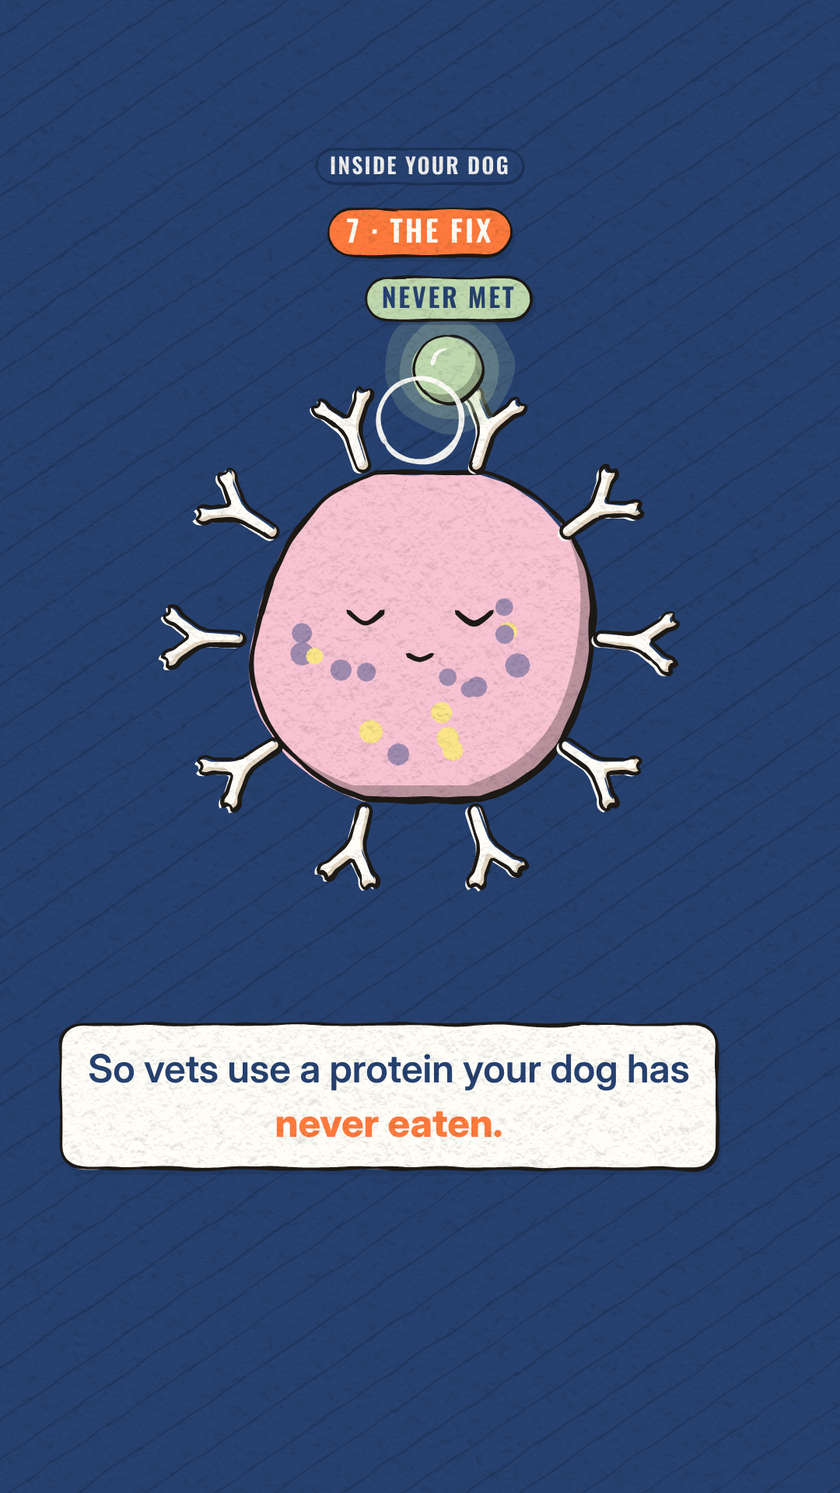
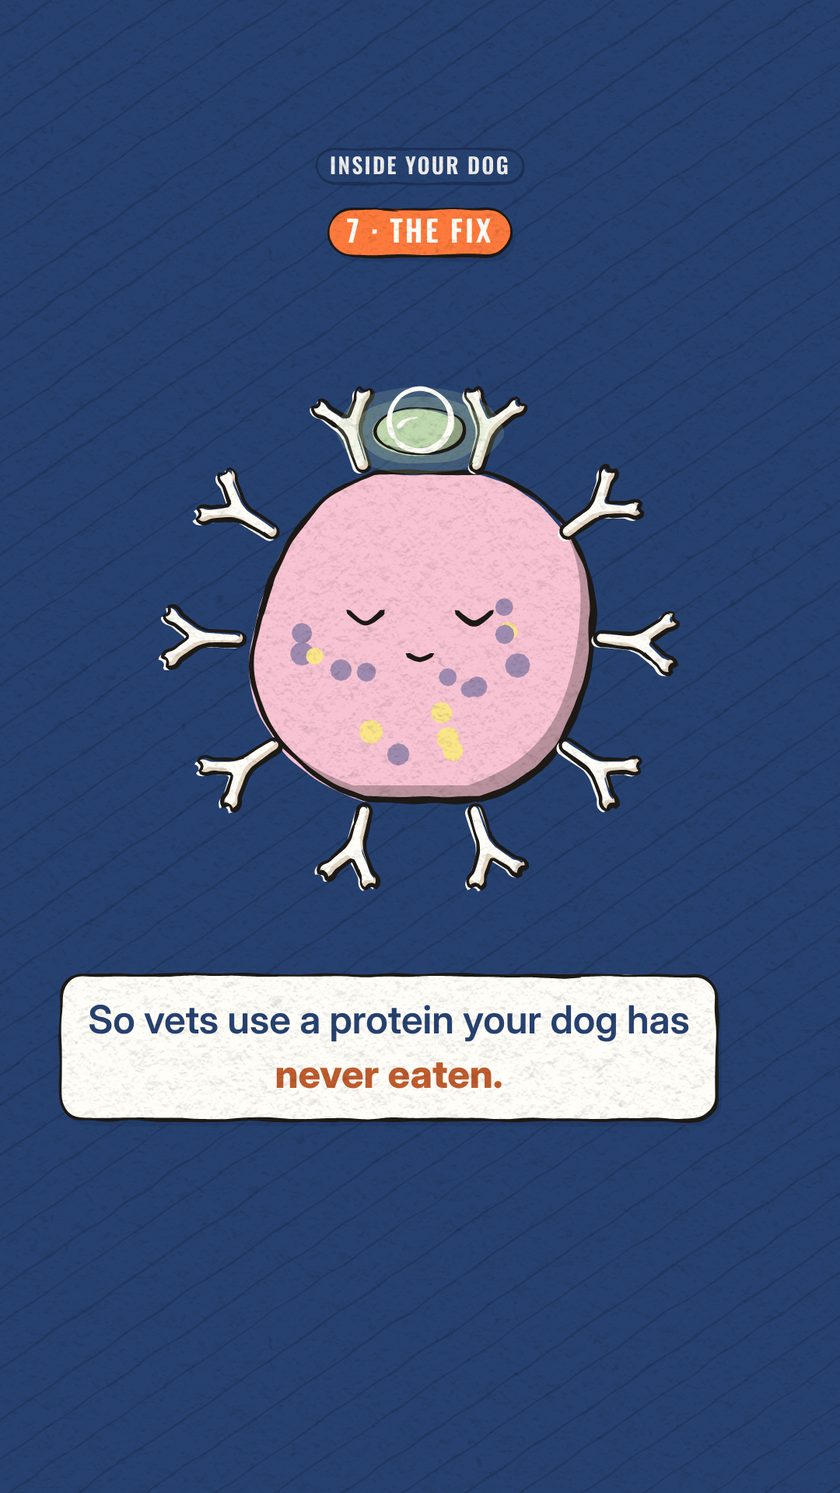
Inside Your Dog: revision 1 from the rubric review
Crossfades keep the outgoing shot moving (no frozen ghost labels);
captions anchored by the bottom edge inside the safe zone and pop in
opaque; callout runs after its caption; smear frames on the gem into
the mouth, the post-burst protein and the never-met rebound (squash on
contact); wipe grows from Miya's mouth and the gut opens with an iris;
SCRATCH! held to 40.2; gut rush on 1s at a capped speed; logo drawn
above the paper grain; no overlays on the impact frames. Audio: burst
louder, SCRATCH softer, guitar back at 32.4, harp instead of celesta
and blips, true peak ceiling -2 dBTP for AAC.

Claude-Session: https://claude.ai/code/session_01PUQuDkxmtnK9JnfuM18izc

Changed region(s): [[0.0611, 0.625, 0.8556, 0.8125], [0.3972, 0.1875, 0.6417, 0.3438]]

diff --git a/films/2026-10-13-inside-your-dog-food-allergy/js/scene.js b/films/2026-10-13-inside-your-dog-food-allergy/js/scene.js
@@ -13,7 +13,7 @@ export const W = 1080, H = 1920, FPS = 24, DUR = 58;
 let ctx, DPR = 1, LOGO;
 
 // ------------------------------------------------------------------ exposure sheet: on 2s, fast action on 1s, holds on 3s
-const SCHED = [[0, 58, 1], [58, 77, 2], [77, 96, 1], [96, 706, 2], [706, 768, 1], [768, 1320, 2], [1320, 1392, 3]];
+const SCHED = [[0, 58, 1], [58, 77, 2], [77, 96, 1], [96, 706, 2], [706, 768, 1], [768, 1094, 2], [1094, 1152, 1], [1152, 1236, 2], [1236, 1260, 1], [1260, 1320, 2], [1320, 1392, 3]];
 function drawing(f) {
   let id = 0;
   for (const [a, b, s] of SCHED) {
@@ -44,13 +44,13 @@ const CAPS = [
   [13.8, 16.4, 'It tags that protein as an **invader...**'],
   [16.4, 19.0, '...and builds **antibodies** against it.'],
   [19.3, 22.2, 'Those antibodies load onto **mast cells** in the skin and gut.'],
-  [22.2, 26.0, 'Nothing happens yet. Your dog **seems fine.**'],
+  [22.2, 24.2, 'Nothing happens yet. Your dog **seems fine.**'],
   [26.2, 28.2, 'Next meal. **Same protein.**'],
   [28.2, 30.8, 'It **locks** onto the antibodies...'],
   [30.8, 35.0, '...and the mast cells **burst,** releasing **histamine** and **itch signals.**'],
   [35.2, 37.4, 'In the skin, those signals fire up the **nerves.**'],
-  [37.4, 39.6, 'The message races to the **brain...**'],
-  [39.6, 43.0, '...and the brain says one thing: **scratch.**'],
+  [37.4, 38.8, 'The message races to the **brain...**'],
+  [38.8, 43.0, '...and the brain says one thing: **scratch.**'],
   [43.2, 45.6, 'In the gut, the same reaction causes **inflammation.**'],
   [45.6, 48.0, 'Food rushes through. Hello, **bad poops.**'],
   [48.2, 50.6, 'The body only reacts to proteins it has **met before.**'],
@@ -72,10 +72,11 @@ function overlays(c, t, v) {
   }
   for (const [txt, a, b] of TITLES) {
     if (t < a || t >= b) continue;
+    if (txt.startsWith('5') && t >= 38.75 && t < 40.2) continue; // SCRATCH! owns the top of frame
     const u = E.out3(clamp((t - a) / 0.35)), out = clamp((b - t) / 0.25);
     CA.pill(c, txt, 540, 279 + 14 * (1 - u) + 20, { size: 38, fill: PAL.orange, color: PAL.hi, alpha: u * out, seed: 21 }, v);
   }
-  for (const [a, b, words] of CAPS) CA.caption(c, words, 500, 1410, t, a, b, v);
+  CAPS.forEach(([a, b, words], i) => CA.caption(c, words, 500, 1440, t, a, b, v, { cont: i > 0 && CAPS[i - 1][1] === a, hold: i < CAPS.length - 1 && CAPS[i + 1][0] === b }));
 }
 
 // ------------------------------------------------------------------ shot 1 · hook (0–4), cream paper
@@ -119,12 +120,14 @@ function shotHook(c, t, f, D) {
   if (t >= 2.5 && t < 3.25) {
     const k = E.io2(inv(2.5, 3.25, t)), p0 = { x: 1180, y: 380 };
     const x = lerp(p0.x, m.x, k), y = lerp(p0.y, m.y, k) - Math.sin(Math.PI * k) * 260;
-    CA.proteinGem(c, x, y, lerp(70, 34, k), t * 3, 60, v);
+    if (t >= 3.1) smearGem(c, x, y, lerp(70, 34, k), Math.atan2(m.y - y, m.x - x), 2.4, 60, v);
+    else CA.proteinGem(c, x, y, lerp(70, 34, k), t * 3, 60, v);
   }
   // a deep-navy circle grows from the mouth to fill the frame (3.45–4.0)
   if (t >= 3.45) {
     const r = lerp(0, 1500, E.in2(inv(3.45, 4.0, t)));
-    const ring = circlePts(W / 2, H / 2, r, 120);
+    const mo = locate(P, o, (R) => R.face.mouthO);
+    const ring = circlePts(mo.x, mo.y, r * 1.6, 120);
     fillShape(c, ring, PAL.navyDeep, { seed: 250 + f, amp: 2 });
     inkLoop(c, ring, { seed: 251 + f, w: 8, amp: 2 });
   }
@@ -198,9 +201,21 @@ function drawGutWorld(c, t, f, D, camY, skipIntact = false) {
     }
   });
   c.restore();
-  label(c, 'INTACT PROTEIN', 540, WALL_BASE + 210 - camY, t, 9.5, 10.7, v, { size: 34 });
+  label(c, 'INTACT PROTEIN', 540, WALL_BASE + 150 - camY, t, 9.5, 10.7, v, { size: 34 });
 }
-function shotGut(c, t, f, D) { drawGutWorld(c, t, f, D, gutCam(t)); }
+function shotGut(c, t, f, D) {
+  drawGutWorld(c, t, f, D, gutCam(t));
+  if (t < 4.5) { // iris open from the navy wipe
+    const r = lerp(0, 1250, E.out2(inv(4.0, 4.5, t))), ring = circlePts(W / 2, H * 0.42, r, 120);
+    c.save(); c.beginPath(); c.rect(0, 0, W, H); polyPath(c, ring, true); c.fillStyle = PAL.navyDeep; c.fill('evenodd'); c.restore();
+    if (r > 4) inkLoop(c, ring, { seed: 252 + f, w: 8, amp: 2 });
+  }
+}
+// one-frame smear: the gem stretched along its motion
+function smearGem(c, x, y, r, dir, len, seed, v) {
+  c.save(); c.translate(x, y); c.rotate(dir); c.scale(len, 0.62); c.rotate(-dir);
+  CA.proteinGem(c, 0, 0, r, dir, seed, v, { glow: 0 }); c.restore();
+}
 
 function protein3(i, t) { const p = intactPos(i, Math.min(t, 10.4)); return { x: p.x, y: p.y - gutCam(Math.min(t, 11.75)) + Math.sin(t * 2.2 + i) * 10 }; }
 function shotMistake(c, t, f, D) {
@@ -299,7 +314,8 @@ function shotTrap(c, t, f, D) {
     const p = protein5(k, t);
     if ((k === 0 && t >= burst) || (k === 1 && t >= 31.4) || (k === 2 && t >= 31.8)) {
       const u = (t - (k === 0 ? burst : k === 1 ? 31.4 : 31.8)) / 0.6; if (u > 1) return;
-      CA.proteinGem(c, p.x + 300 * u, p.y - 900 * u, p.r, t * 6, 760 + k, v); return; // shoots up and away
+      if (u < 0.09) smearGem(c, p.x + 300 * u, p.y - 900 * u, p.r, Math.atan2(-900, 300), 3.0, 760 + k, v);
+      else CA.proteinGem(c, p.x + 300 * u, p.y - 900 * u, p.r, t * 6, 760 + k, v); return; // shoots up and away
     }
     if (t < p.lockT && t < PROT5[k].t0 + 1.35) for (let g = 1; g <= 2; g++) { // ghost trails while flying in
       const q = protein5(k, t - g * 0.08); c.save(); c.globalAlpha = 0.25 / g; CA.proteinGem(c, q.x, q.y, p.r, 0, 750 + k, v, { glow: 0 }); c.restore();
@@ -336,18 +352,18 @@ function shotTrap(c, t, f, D) {
     c.save(); c.globalAlpha = Math.sin(Math.PI * u); c.font = `italic 600 ${44 + k * 10}px "Fraunces"`; c.fillStyle = PAL.hi;
     c.fillText('z', 760 + 40 * u + k * 6, 640 - 160 * u - k * 30); c.restore();
   }
-  if (t >= 23.1 && t < 25.8) { // callout card
-    const u = E.out3(clamp((t - 23.1) / 0.4)), a = clamp((25.8 - t) / 0.25);
+  if (t >= 24.2 && t < 26.0) { // callout card (after the caption, never with it)
+    const u = E.out3(clamp((t - 24.2) / 0.3)), a = clamp((26.0 - t) / 0.2);
     c.save(); c.globalAlpha = a; c.translate(0, 60 * (1 - u));
-    const P = G.resample(CA.roundRect(330, 1100, 680, 120, 24), 6, true);
+    const P = G.resample(CA.roundRect(160, 1100, 680, 120, 24), 6, true);
     fillShape(c, P.map(([x, y]) => [x + 6, y + 8]), 'rgba(27,47,82,0.35)', { seed: 900 + v, amp: 1.2 });
     fillShape(c, P, PAL.hi, { seed: 901 + v, amp: 1.4 }); inkLoop(c, P, { seed: 902 + v, w: 3.5, amp: 1.4 });
     c.font = '600 34px "Inter"'; c.fillStyle = PAL.navy; c.textAlign = 'left';
-    c.fillText('This is why allergies seem', 362, 1150); c.fillText('to come out of nowhere.', 362, 1196);
+    c.fillText('This is why allergies seem', 192, 1150); c.fillText('to come out of nowhere.', 192, 1196);
     c.restore();
   }
   label(c, 'HISTAMINE', 250, 420, t, 32.3, 35.0, v, { size: 36, dot: COL.histamine });
-  label(c, 'IL-31 · THE ITCH SIGNAL', 690, 1230, t, 32.9, 35.0, v, { size: 32, dot: COL.itch });
+  label(c, 'IL-31 · THE ITCH SIGNAL', 690, 1190, t, 32.9, 35.0, v, { size: 32, dot: COL.itch });
   // impact frames on the burst: two frames, then a cream flash fading over 0.2 s
   const fb = Math.round(burst * FPS);
   if (f === fb) FX.impactFrame(c, W, H, HERO.x, HERO.y, PAL.hi, PAL.orange, 950, { core: COL.itch, R: 760 });
@@ -357,7 +373,7 @@ function shotTrap(c, t, f, D) {
 // push transition 19.0–19.9: the mistake slides up, the trap rises from below
 function shotPush(c, t, f, D) {
   const u = E.io2(inv(19.0, 19.9, t));
-  c.save(); c.translate(0, -H * u); shotMistake(c, 18.99, f, D); c.restore();
+  c.save(); c.translate(0, -H * u); shotMistake(c, t, f, D); c.restore();
   c.save(); c.translate(0, H * (1 - u)); shotTrap(c, t, f, D); c.restore();
 }
 
@@ -391,9 +407,9 @@ function shotNerve(c, t, f, D) {
   const lit = t >= 38.6 ? E.out2(clamp((t - 38.6) / 0.3)) : 0;
   CA.brain(c, BRAIN.x, BRAIN.y, 1.0, tq, 1070, v, { face: t >= 38.6 ? 'shocked' : t >= 37.2 ? 'open' : 'asleep', pop: 1 + hit, lit });
   label(c, 'IL-31', 230, 960, t, 35.3, 37.0, v, { size: 34, dot: COL.itch });
-  label(c, 'SKIN', 840, 1230, t, 35.5, 39.6, v, { size: 34 });
-  label(c, 'NERVE', 360, 1020, t, 36.2, 39.6, v, { size: 34, dot: COL.bcell });
-  if (t >= 38.8) label(c, 'SCRATCH!', 540, 425, t, 38.8, 39.6, v, { size: 92, fill: PAL.orange, color: PAL.hi, edge: PAL.navy, rot: -0.052, seed: 77 });
+  label(c, 'SKIN', 840, 1195, t, 35.5, 40.2, v, { size: 34 });
+  label(c, 'NERVE', 360, 1020, t, 36.2, 40.2, v, { size: 34, dot: COL.bcell });
+  if (t >= 38.8) label(c, 'SCRATCH!', 540, 425, t, 38.8, 40.2, v, { size: 92, fill: PAL.orange, color: PAL.hi, edge: PAL.navy, rot: -0.052, seed: 77 });
 }
 const DOG6 = { x: 500, y: 1170, s: 2.2, view: 15 };
 function shotScratchDog(c, t, f, D) {
@@ -405,12 +421,12 @@ function shotScratchDog(c, t, f, D) {
   const pj = (fn) => locate(P, DOG6, fn);
   const ear = pj((R) => R.ears[0].bot), paws = pj((R) => R.legs.find((l) => l.key === 'FN').pts[3]), belly = pj((R) => R.torso[2].b);
   const ring = (p, t0) => { if (t < t0) return; const pr = 0.85 + 0.15 * Math.sin((t - t0) * 8); inkLoop(c, circlePts(p.x, p.y, 54 * pr, 30), { seed: 1110 + Math.round(p.x) + v, w: 5, amp: 1, color: PAL.orange }); };
-  ring(ear, 40.1); ring(paws, 40.7); ring(belly, 41.3);
+  ring(ear, 40.6); ring(paws, 41.0); ring(belly, 41.4);
   const lead = (p, x, y, t0) => { if (t >= t0) inkStroke(c, [[x, y], [p.x, p.y]], { seed: 1120 + x + v, w: 4, t0: 6, t1: 6, min: 0.4, amp: 1, heavy: 0, color: PAL.orange }); };
-  lead(ear, 210, 640, 40.1); lead(paws, 820, 1060, 40.7); lead(belly, 820, 900, 41.3);
-  label(c, 'EARS', 190, 640, t, 40.1, 43.0, v, { size: 38, fill: PAL.orange, color: PAL.hi });
-  label(c, 'PAWS', 830, 1060, t, 40.7, 43.0, v, { size: 38, fill: PAL.orange, color: PAL.hi });
-  label(c, 'BELLY', 830, 900, t, 41.3, 43.0, v, { size: 38, fill: PAL.orange, color: PAL.hi });
+  lead(ear, 210, 640, 40.6); lead(paws, 820, 1060, 41.0); lead(belly, 820, 900, 41.4);
+  label(c, 'EARS', 190, 640, t, 40.6, 42.9, v, { size: 38, fill: PAL.orange, color: PAL.hi });
+  label(c, 'PAWS', 830, 1060, t, 41.0, 42.9, v, { size: 38, fill: PAL.orange, color: PAL.hi });
+  label(c, 'BELLY', 830, 900, t, 41.4, 42.9, v, { size: 38, fill: PAL.orange, color: PAL.hi });
 }
 
 // ------------------------------------------------------------------ shot 7 · the gut, again (43–48)
@@ -434,13 +450,13 @@ function shotGutAgain(c, t, f, D) {
   inkStroke(c, TUBE.map(([x, y]) => [x - 8, y - 22]), { seed: 1203 + v, w: 14, t0: 30, t1: 30, min: 0.3, amp: 1.2, heavy: 0, color: infl > 0.5 ? '#FFD2BC' : COL.villus, dense: true });
   // food pellets drifting along it, rushing from 45.6
   const Ls = G.arclen(TUBE), tot = Ls[Ls.length - 1];
-  const prog = (tq - 43) * 60 + Math.max(0, tq - 45.6) ** 2 * 900;
+  const rr = Math.max(0, tq - 45.6), prog = (tq - 43) * 60 + (rr < 0.5 ? 900 * rr * rr : 225 + 900 * (rr - 0.5)); // ramps to 900 px/s, then holds
   for (let k = 0; k < 9; k++) {
     const s = ((k / 9) * tot + prog) % tot, pts = G.prefix(TUBE, s / tot), q = pts[pts.length - 1], q0 = pts[Math.max(0, pts.length - 4)];
     if (t > 45.6) inkStroke(c, [[q[0] - (q[0] - q0[0]) * 6, q[1] - (q[1] - q0[1]) * 6], q], { seed: 1210 + k + f, w: 10, t0: 30, t1: 4, min: 0.1, amp: 0.8, heavy: 0, color: COL.crumbShade });
     CA.celMass(c, circlePts(q[0], q[1], 24, 16), COL.crumb, COL.crumbShade, 1220 + k, v, { w: 3, sh: 5 });
   }
-  label(c, 'INFLAMED', 250, 470, t, 44.3, 48.0, v, { size: 38, fill: PAL.orange, color: PAL.hi });
+  label(c, 'INFLAMED', 250, 470, t, 44.3, 47.9, v, { size: 38, fill: PAL.orange, color: PAL.hi });
   if (t >= 46.5) { const pop = E.outBack(clamp((t - 46.5) / 0.35), 2.2), j = 1 + 0.04 * Math.sin(tq * 14); c.save(); c.translate(830, 1215); c.scale(pop * j, pop / j); CA.poop(c, 0, 0, 0.85, tq, 1240, v); c.restore(); }
 }
 
@@ -452,32 +468,36 @@ function shotFix(c, t, f, D) {
   if (t >= 51.7) CA.glow(c, HERO.x, HERO.y, 330 * E.out2(clamp((t - 51.7) / 0.8)), COL.neverMet, 1310, v, 0.1);
   drawMastWithAntibodies(c, HERO, 99, tq, v, 1320, 10, { dockT0: 0, dockStep: 0, face: t >= 52.0 ? 'happy' : 'asleep', sway: true });
   const dock = { x: HERO.x, y: HERO.y - HERO.r - 80 };
-  if (t >= 48.5 && t < 50.5) { c.save(); c.globalAlpha = Math.floor((t - 48.5) * 4) % 2 ? 0.35 : 0.75; CA.proteinGem(c, dock.x, dock.y, 48, 0.3, 1330, v); c.restore(); }
+  if (t >= 48.5 && t < 50.5) { c.save(); c.globalAlpha = 0.55 + 0.2 * Math.sin((t - 48.5) * 5); CA.proteinGem(c, dock.x, dock.y, 48, 0.3, 1330, v); c.restore(); }
   label(c, 'MET BEFORE = REACTS', 540, 400, t, 48.5, 50.6, v, { size: 36, fill: PAL.orange, color: PAL.hi });
   let nm = null;
   if (t >= 50.6) {
-    if (t < 51.7) { const u = E.io2(inv(50.6, 51.7, t)); nm = { x: lerp(1180, dock.x, u), y: lerp(160, dock.y, u) }; }
-    else { const u = E.out3(clamp((t - 51.7) / 1.0)); nm = { x: lerp(dock.x, 800, u), y: lerp(dock.y, 440, u) - Math.sin(Math.PI * u) * 60 + Math.sin(t * 2) * 8 * u }; }
-    CA.neverMet(c, nm.x, nm.y, 44, 1340, v);
-    if (t >= 51.7 && t < 52.5) { const u = (t - 51.7) / 0.8; c.save(); c.globalAlpha = 1 - u; inkLoop(c, circlePts(dock.x, dock.y + 30, 40 + 220 * u, 50), { seed: 1350 + f, w: 6, amp: 1, color: PAL.hi }); c.restore(); }
+    const contact = { x: dock.x, y: dock.y + 34 };
+    if (t < 51.75) { const u = E.in2(inv(50.6, 51.75, t)); nm = { x: lerp(1180, contact.x, u), y: lerp(160, contact.y, u) }; }
+    else { const u = E.out3(clamp((t - 51.75) / 1.0)); nm = { x: lerp(contact.x, 800, u), y: lerp(contact.y, 470, u) - Math.sin(Math.PI * u) * 60 + Math.sin(t * 2) * 8 * u }; }
+    const fc = Math.round(51.75 * FPS);
+    if (f === fc) { c.save(); c.translate(nm.x, nm.y + 10); c.scale(1.3, 0.68); CA.neverMet(c, 0, 0, 44, 1340, v); c.restore(); } // squash on contact
+    else if (f === fc + 1) { c.save(); c.translate(nm.x, nm.y); c.rotate(-0.55); c.scale(1.9, 0.7); c.rotate(0.55); CA.neverMet(c, 0, 0, 44, 1340, v, { glow: 0 }); c.restore(); } // smear on the rebound
+    else CA.neverMet(c, nm.x, nm.y, 44, 1340, v);
+    if (t >= 51.75 && t < 52.55) { const u = (t - 51.75) / 0.8; c.save(); c.globalAlpha = 1 - u; inkLoop(c, circlePts(dock.x, dock.y + 30, 40 + 220 * u, 50), { seed: 1350 + f, w: 6, amp: 1, color: PAL.hi }); c.restore(); }
   }
-  if (nm && t >= 51.0) label(c, 'NEVER MET', nm.x, nm.y - 90, t, 51.0, 55.0, v, { size: 34, fill: COL.neverMet, color: PAL.navy });
+  if (nm && t >= 52.1) label(c, 'NEVER MET', nm.x, nm.y + 90, t, 52.1, 55.0, v, { size: 34, fill: COL.neverMet, color: PAL.navy });
   [['KANGAROO', 53.1, ACCENTS.kangaroo.c], ['VENISON', 53.35, ACCENTS.venison.c], ['RABBIT', 53.6, ACCENTS.rabbit.c]].forEach(([txt, t0, col], i) =>
-    label(c, txt, 250 + i * 290, 1200, t, t0, 55.0, v, { size: 36, fill: col, color: PAL.hi, seed: 1360 + i }));
+    label(c, txt, 250 + i * 290, 1200, t, t0, 55.0, v, { size: 36, fill: col, color: txt === 'RABBIT' ? PAL.navy : PAL.hi, seed: 1360 + i }));
 }
 
 // ------------------------------------------------------------------ end card (55–58)
 function shotEnd(c, t, f, D) {
   const v = bv(D);
   drawPaper(c, W, H);
-  CA.glow(c, 540, 820, 420, PAL.orange, 1400, v, 0.045);
+  CA.glow(c, 500, 820, 420, PAL.orange, 1400, v, 0.045);
   const rise = (t0) => ({ a: E.out2(clamp((t - t0) / 0.4)), dy: 40 * (1 - E.out3(clamp((t - t0) / 0.4))) });
   let r = rise(55.2);
   if (r.a > 0) { c.save(); c.globalAlpha = r.a; c.translate(0, r.dy);
     drawMiya(c, pose('wag', { face: { eyes: 'happy', mouth: 'tongue', brow: 0.6 }, tail: { a0: 92 + (f % 2 ? 22 : -22), curl: -32 } }), { x: 520, y: 830, s: 1.75, view: 25, v, seed: 5200, accent: COL.guard });
     c.restore(); }
   r = rise(55.42); // the wordmark: the supplied file, placed clean and still
-  if (r.a > 0) { const lw = 760, lh = lw * LOGO.height / LOGO.width; c.save(); c.globalAlpha = r.a; c.drawImage(LOGO, 500 - lw / 2, 1000 - lh / 2 + r.dy, lw, lh); c.restore(); }
+  if (r.a > 0) { c.save(); c.globalAlpha = r.a; drawLogo(c, r.dy); c.restore(); }
   r = rise(55.64);
   if (r.a > 0) { c.save(); c.globalAlpha = r.a; c.font = '600 43px "Inter"'; c.fillStyle = PAL.navy; c.textAlign = 'center'; c.fillText('Single-ingredient novel protein treats', 500, 1150 + r.dy); c.restore(); }
   r = rise(56.0);
@@ -487,14 +507,14 @@ function shotEnd(c, t, f, D) {
 }
 
 // ------------------------------------------------------------------ frame
-const XF = [[35.0, 0.45, shotTrap, shotNerve], [39.6, 0.3, shotNerve, shotScratchDog], [43.0, 0.4, shotScratchDog, shotGutAgain], [48.0, 0.4, shotGutAgain, shotFix], [55.0, 0.45, shotFix, shotEnd]];
+const XF = [[35.0, 0.45, shotTrap, shotNerve], [40.2, 0.3, shotNerve, shotScratchDog], [43.0, 0.4, shotScratchDog, shotGutAgain], [48.0, 0.4, shotGutAgain, shotFix], [55.0, 0.45, shotFix, shotEnd]];
 function shotAt(t) {
   if (t < 4.0) return shotHook;
   if (t < 11.0) return shotGut;
   if (t < 19.0) return shotMistake;
   if (t < 19.9) return shotPush;
   if (t < 35.0) return shotTrap;
-  if (t < 39.6) return shotNerve;
+  if (t < 40.2) return shotNerve;
   if (t < 43.0) return shotScratchDog;
   if (t < 48.0) return shotGutAgain;
   if (t < 55.0) return shotFix;
@@ -510,12 +530,18 @@ export function render(t) {
   const xf = XF.find(([at, d]) => t1 >= at && t1 < at + d);
   if (xf) { // crossfade: draw the outgoing shot, then the incoming one over it at rising opacity via an offscreen layer
     const [at, d, A, B] = xf;
-    A(c, Math.min(t1, at - 1 / FPS), f, D);
+    A(c, t1, f, D);
     if (!LAYER.c) { const cv = document.createElement('canvas'); cv.width = W * DPR; cv.height = H * DPR; LAYER.c = cv.getContext('2d'); }
     const L = LAYER.c; L.setTransform(1, 0, 0, 1, 0, 0); L.clearRect(0, 0, W * DPR, H * DPR); L.setTransform(DPR, 0, 0, DPR, 0, 0);
     B(L, t1, f, D);
     c.save(); c.setTransform(1, 0, 0, 1, 0, 0); c.globalAlpha = E.io2((t1 - at) / d); c.drawImage(L.canvas, 0, 0); c.restore();
   } else shotAt(t1)(c, t1, f, D);
-  overlays(c, t1, bv(D));
+  const fb = Math.round(31.0 * FPS);
+  if (f !== fb && f !== fb + 1) overlays(c, t1, bv(D));
   drawTooth(c, W, H, bv(D), DPR, 0.13);
+  if (t1 >= 55.9) drawLogo(c, 0); // a still, clean logo: the grain must not crawl over it
+}
+function drawLogo(c, dy) {
+  const lw = 760, lh = lw * LOGO.height / LOGO.width;
+  c.drawImage(LOGO, 500 - lw / 2, 1000 - lh / 2 + dy, lw, lh);
 }

diff --git a/films/2026-10-13-inside-your-dog-food-allergy/js/cast.js b/films/2026-10-13-inside-your-dog-food-allergy/js/cast.js
@@ -5,7 +5,7 @@ import { PAL, ACCENTS, MIYA } from '../../../cel/palette.js';
 import { field, primBounds, contours } from '../../../cel/shape.js';
 import * as FX from '../../../cel/fx.js';
 
-const { hs, lerp, clamp, spline, xf, circlePts, fillShape, inkLoop, inkStroke, polyPath, E } = G;
+const { hs, lerp, clamp, spline, xf, circlePts, fillShape, inkLoop, inkStroke, polyPath, E, K } = G;
 
 // cast colours: all from the approved BEANS palette
 export const COL = {
@@ -260,8 +260,11 @@ export function pill(c, text, x, y, o, v) {
   c.fillText(text, dot * 0.5, size * 0.04);
   c.restore();
 }
-// caption card: card-cream, hand-cut boiling edge; words build in one by one, highlight words in orange
-export function caption(c, words, x, y, t, tIn, tOut, v) {
+// caption card: card-cream, hand-cut boiling edge, anchored by its BOTTOM edge (yb) so two-line cards stay inside the
+// safe zone. The card pops in opaque (scale, no grey half-alpha slab); only the words build in, one by one, highlight
+// words in orange. o.cont: the previous caption ends where this one starts, so the card is already up (no re-pop);
+// o.hold: the next caption starts where this one ends, so the card doesn't pop out.
+export function caption(c, words, x, yb, t, tIn, tOut, v, o = {}) {
   if (t < tIn || t >= tOut) return;
   const size = 50, lh = 70, maxW = 860;
   c.save(); c.font = `600 ${size}px "Inter"`;
@@ -275,8 +278,11 @@ export function caption(c, words, x, y, t, tIn, tOut, v) {
   }
   c.restore();
   const boxW = Math.min(940, Math.max(...lines.map((L) => L.reduce((a, q) => a + q.width + sp, -sp))) + 70), boxH = lines.length * lh + 46;
-  const fade = Math.min(1, (t - tIn) / 0.16) * Math.min(1, (tOut - t) / 0.1), rise = 26 * (1 - E.out3(Math.min(1, (t - tIn) / 0.16)));
-  c.save(); c.globalAlpha = fade; c.translate(0, rise);
+  const y = yb - boxH / 2;
+  const sIn = o.cont ? 1 : K(t, [[tIn, 0.82], [tIn + 0.1, 1.04, 'out3'], [tIn + 0.18, 1]]);
+  const outU = o.hold ? 0 : clamp((t - (tOut - 0.12)) / 0.12);
+  const sc = sIn * (1 - 0.12 * outU), fade = 1 - outU;
+  c.save(); c.globalAlpha = fade; c.translate(x, y); c.scale(sc, sc); c.translate(-x, -y);
   const P = G.resample(roundRect(x - boxW / 2, y - boxH / 2, boxW, boxH, 28), 6, true);
   fillShape(c, P.map(([a, b]) => [a + 6, b + 8]), 'rgba(27,47,82,0.3)', { seed: 300 + v, amp: 1.2 });
   fillShape(c, P, PAL.hi, { seed: 301 + v, amp: 1.4 });
@@ -289,7 +295,7 @@ export function caption(c, words, x, y, t, tIn, tOut, v) {
     for (const wd of L) {
       const tw = tIn + 0.05 + k * 0.07, u = clamp((t - tw) / 0.14);
       if (u > 0) {
-        c.save(); c.globalAlpha = fade * u; c.font = `${wd.b ? 800 : 600} ${size}px "Inter"`; c.fillStyle = wd.b ? PAL.orange : PAL.navy; c.textBaseline = 'alphabetic';
+        c.save(); c.globalAlpha = fade * u; c.font = `${wd.b ? 800 : 600} ${size}px "Inter"`; c.fillStyle = wd.b ? PAL.orangeShade : PAL.navy; c.textBaseline = 'alphabetic';
         c.fillText(wd.w, wx, wy + 10 * (1 - E.out3(u))); c.restore();
       }
       wx += wd.width + sp; k++;

diff --git a/films/2026-10-13-inside-your-dog-food-allergy/audio.py b/films/2026-10-13-inside-your-dog-food-allergy/audio.py
@@ -53,9 +53,10 @@ CH = [
     (22.2, 26.0, 'G2', ['D3', 'B3', 'D4'], 0.6),
     (26.0, 28.2, 'B1', ['F#3', 'B3', 'D4'], 0.8),     # 4 the reaction: minor, pulse
     (28.2, 30.85, 'F#2', ['C#3', 'F#3', 'A#3'], 0.9),
+    (32.4, 35.0, 'B1', ['F#3', 'B3', 'D4'], 0.6),     # after the burst: the guitar creeps back in
     (35.0, 37.4, 'E2', ['B2', 'E3', 'G3'], 0.8),      # 5 the itch
-    (37.4, 39.6, 'F#2', ['C#3', 'F#3', 'A#3'], 1),
-    (39.6, 43.0, 'G2', ['D3', 'B3', 'D4'], 0.8),
+    (37.4, 40.2, 'F#2', ['C#3', 'F#3', 'A#3'], 1),
+    (40.2, 43.0, 'G2', ['D3', 'B3', 'D4'], 0.8),
     (43.0, 45.6, 'E2', ['B2', 'E3', 'G3'], 0.7),      # 6 the gut, again
     (45.6, 48.0, 'A2', ['E3', 'A3', 'C#4'], 0.7),
     (48.0, 50.6, 'G2', ['D3', 'B3', 'D4'], 0.9),      # 7 the fix: home to D
@@ -114,13 +115,13 @@ S(sfx.paper('crumple', 0.7), at=6.7, gain=-9)
 S(sfx.squelch(0.6, seed=2), at=8.5, gain=-8, pan=-0.2)
 S(sfx.squelch(0.6, seed=3), at=8.65, gain=-9, pan=0.25)
 for k in range(3):
-    S(sfx.blip('A5', 'sine', 0.09, glide=0), at=9.4 + k * 0.55, gain=-12)
+    S(HARP.play('D6', 0.8, 0.35, release=0.4).loud(-18), at=9.4 + k * 0.55, gain=-12)
 S(sfx.whoosh(1.0, 'soft', direction=0), at=11.1, gain=-7)
 # 2 the mistake
 S(sfx.swish(0.35), at=11.9, gain=-9)
 S(sfx.impact('soft', size=0.6), at=13.8, gain=-3)
 S(sfx.pop('soft', 1.1), at=14.3, gain=-7)
-S(sfx.pop('bubble', 0.9), at=15.6, gain=-7)
+S(sfx.pop('soft', 0.9), at=15.6, gain=-8)
 for k in range(17):
     S(sfx.click('soft'), at=16.4 + k * 0.17, gain=-15, pan=-0.3)
 # 3 the trap is set: antibodies dock, the cell sleeps
@@ -131,7 +132,7 @@ S(sfx.pop('soft', 1.0), at=20.4, gain=-10)
 S(sfx.whoosh(0.8, 'soft'), at=26.6, gain=-9)
 S(sfx.click('wood'), at=29.4, gain=-4)
 S(sfx.riser(1.6, 'noise', intensity=0.6), at=31.0, gain=-9)
-S(sfx.impact('cinematic', size=0.8), at=31.0, gain=1)
+S(sfx.impact('cinematic', size=0.8), at=31.0, gain=4)
 S(sfx.paper('flip', 0.6), at=31.1, gain=-8)
 S(sfx.sparkle(3.2, 14, key='D', lo=78, hi=96), at=31.3, gain=-11)
 S(sfx.pop('soft', 1.0), at=32.3, gain=-11)
@@ -140,11 +141,11 @@ m.mute(30.85, 0.15)
 # 5 the itch: the nerve fires, the message races up, SCRATCH!, back to Miya
 S(sfx.whoosh(0.5, 'swish'), at=36.6, gain=-10)
 S(sfx.whoosh(1.1, 'air', direction=1), at=38.6, gain=-6)
-S(sfx.impact('soft', size=0.7), at=38.8, gain=-2)
+S(sfx.impact('soft', size=0.7), at=38.8, gain=-7)
 for k in range(14):
-    S(sfx.paper('rustle', 0.12, seed=40 + k), at=39.8 + k * 0.22, gain=-11, pan=-0.1)
-for tt in (40.1, 40.7, 41.3):
-    S(sfx.pop('soft', 1.05), at=tt, gain=-11)
+    S(sfx.paper('rustle', 0.12, seed=40 + k), at=40.35 + k * 0.2, gain=-11, pan=-0.1)
+for tt in (40.6, 41.0, 41.4):
+    S(sfx.pop('soft', 1.05), at=tt, gain=-15)
 # 6 the gut, again: inflamed, food rushes through, the poop
 S(sfx.whoosh(0.7, 'soft'), at=43.1, gain=-9)
 S(sfx.bubbles(4.0, 8.0), at=44.0, gain=-14)
@@ -154,15 +155,17 @@ S(sfx.pop('soft', 0.8), at=46.75, gain=-12)
 S(sfx.pop('soft', 1.0), at=48.5, gain=-10)
 S(sfx.whoosh(0.6, 'soft'), at=51.2, gain=-10)
 S(sfx.click('wood'), at=51.75, gain=-5)
+S(sfx.impact('soft', size=0.3), at=51.75, gain=-10)
 for tt in (53.1, 53.35, 53.6):
     S(sfx.pop('soft', 1.1), at=tt, gain=-10)
-S(sfx.chime(('D6', 'F#6', 'A6'), step=0.12, kind='celesta'), at=53.0, gain=-12)
+for j, x in enumerate(['D5', 'G5', 'B5']):   # a soft harp lift, not a celesta (too close to xylophone)
+    S(HARP.play(x, 1.2, 0.4, release=0.6).loud(-18), at=53.0 + 0.12 * j, gain=-13)
 # end card
 S(sfx.paper('slide', 0.5), at=55.2, gain=-12)
 
 if __name__ == '__main__':
     os.makedirs(os.path.join(HERE, 'out'), exist_ok=True)
-    res = m.export(os.path.join(HERE, 'out', 'audio.wav'), tp=-1.6,  # AAC adds ~0.5 dB of true peak
+    res = m.export(os.path.join(HERE, 'out', 'audio.wav'), tp=-2.0,  # AAC adds ~0.5 dB of true peak; check the muxed mp4
                    spectrogram=os.path.join(HERE, 'out', 'audio-spectrogram.png'))
     print({k: v for k, v in res.items() if k != 'path'})
     m.report()
